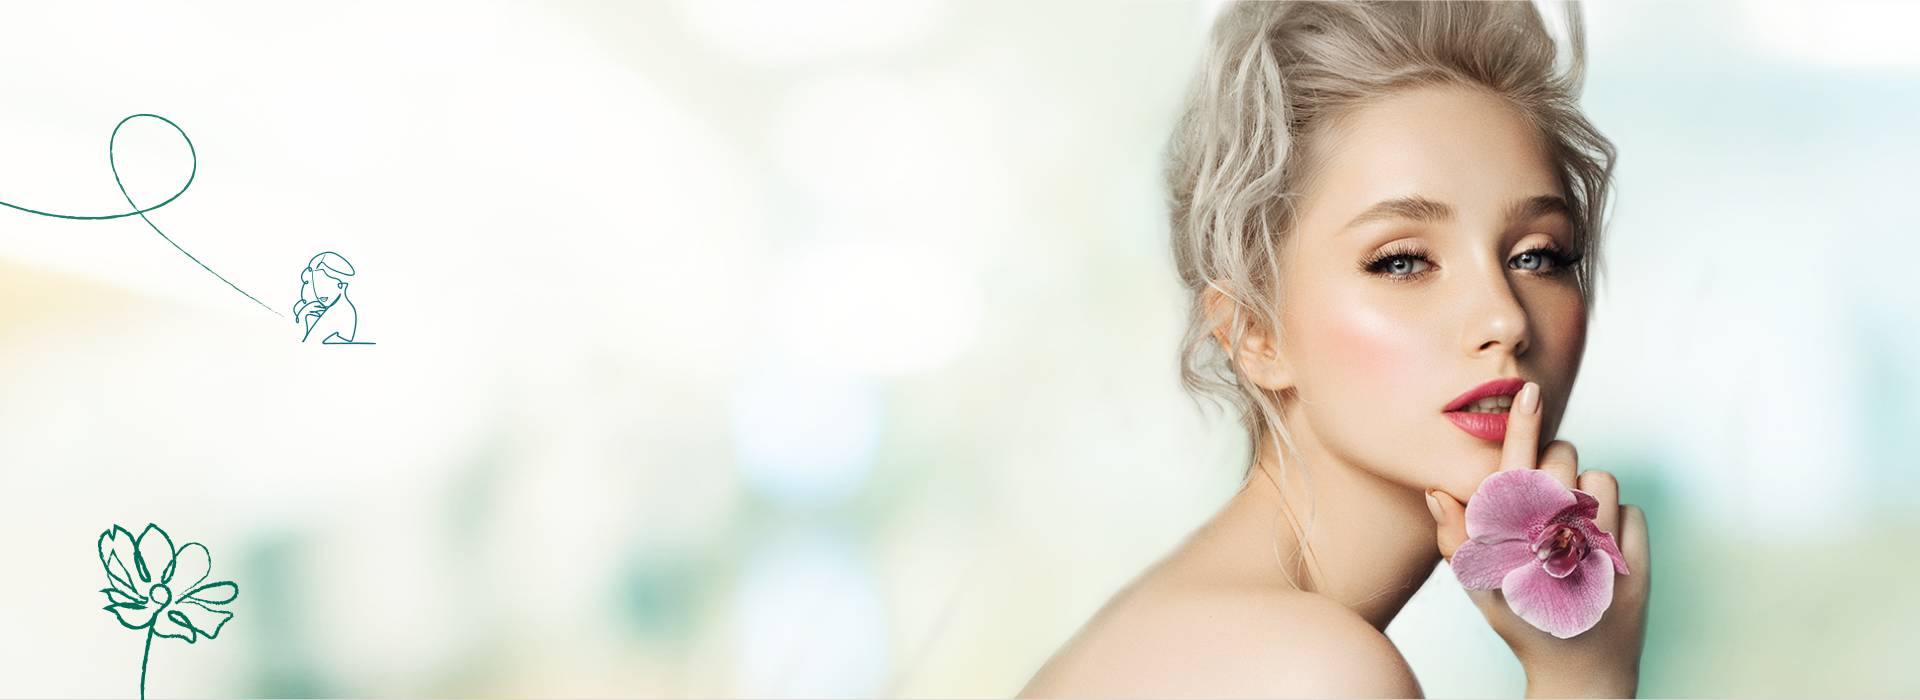
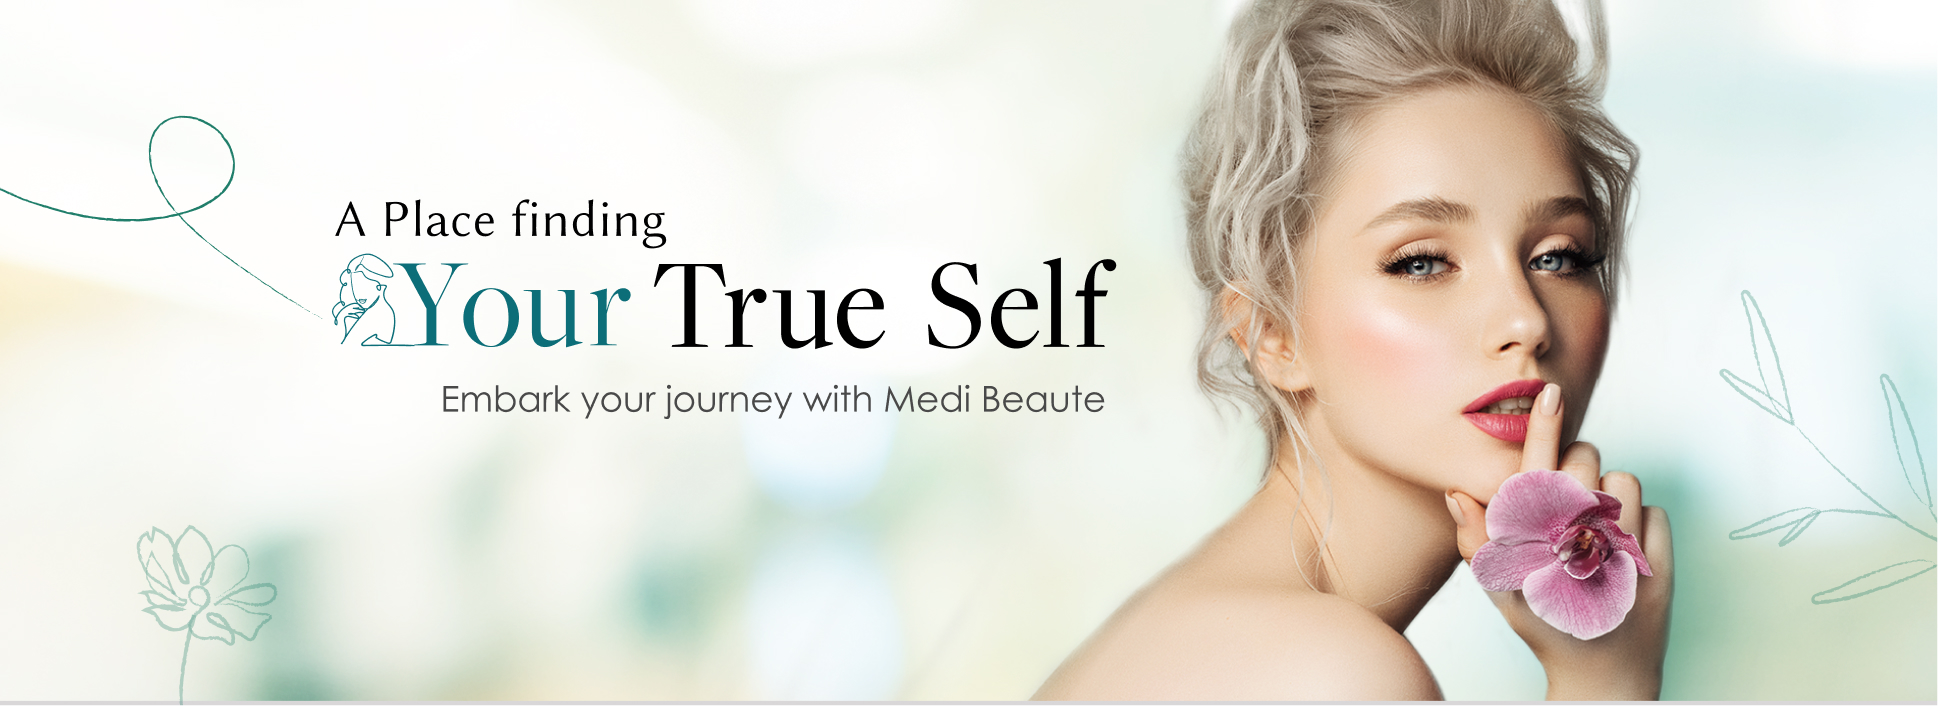
update font

diff --git a/index.html b/index.html
@@ -179,14 +179,18 @@
 	</header>
 	<!-- END HEADER -->
 
+	<section>
+		<div class="banner-image">
+			<img src="assets/images/banner1.jpg" class="img-fluid" alt="Banner image">
+		</div>
+	</section>
 	<!-- START SECTION BANNER -->
-	<div class="banner_section slide_medium shop_banner_slider staggered-animation-wrap">
+	<!-- <div class="banner_section slide_medium shop_banner_slider staggered-animation-wrap">
 		<div id="carouselExampleControls" class="carousel slide carousel-fade light_arrow" data-ride="carousel">
 			<div class="carousel-inner">
-				<div class="carousel-item active background_bg" data-img-src="assets/images/banner1.jpg">
+				<div class="carousel-item active background_bg background_bg1" data-img-src="assets/images/banner1.jpg">
 					<div class="banner_slide_content">
 						<div class="container">
-							<!-- STRART CONTAINER -->
 							<div class="row">
 								<div class="col-lg-7 col-9">
 									<div class="banner_content banner_content_padding overflow-hidden">
@@ -199,12 +203,11 @@
 									</div>
 								</div>
 							</div>
-						</div><!-- END CONTAINER-->
 					</div>
 				</div>
 			</div>
 		</div>
-	</div>
+	</div> -->
 	<!-- END SECTION BANNER -->
 
 	<!-- END MAIN CONTENT -->
@@ -214,7 +217,7 @@
 		<div class="section">
 			<div class="container">
 				<div class="row align-items-center flex-row-reverse">
-					<div class="col-md-6 offset-md-1">
+					<div class="col-md-6">
 						<div class="medium_divider d-none d-md-block clearfix"></div>
 						<div class="trand_banner_text text-center text-md-left">
 							<div class="title mb-3">
@@ -231,7 +234,7 @@
 						</div>
 						<div class="medium_divider clearfix"></div>
 					</div>
-					<div class="col-md-5">
+					<div class="col-md-6">
 						<div class="text-center trading_img">
 							<img src="assets//images/glow_own.jpg" alt="tranding_img" />
 						</div>
@@ -365,7 +368,7 @@
 		<div class="section">
 			<div class="container">
 				<div class="row align-items-center">
-					<div class="col-md-6 offset-md-1">
+					<div class="col-md-6">
 						<div class="medium_divider d-none d-md-block clearfix"></div>
 						<div class="trand_banner_text text-center text-md-left">
 							<div class="title mb-3">
@@ -381,7 +384,7 @@
 						</div>
 						<div class="medium_divider clearfix"></div>
 					</div>
-					<div class="col-md-5">
+					<div class="col-md-6">
 						<div class="text-center trading_img">
 							<img src="assets//images/exports-products.jpg" alt="products" />
 						</div>

diff --git a/assets/css/style.css b/assets/css/style.css
@@ -46,6 +46,23 @@ Version      : 1.0
 	font-style: normal;
 }
 
+@font-face {
+	font-family: 'century_gothicregular';
+	src: url('../fonts/gothic-webfont.woff2') format('woff2'),
+			 url('../fonts/gothic-webfont.woff') format('woff');
+	font-weight: normal;
+	font-style: normal;
+
+}
+
+@font-face {
+	font-family: 'century_gothicbold';
+	src: url('../fonts/gothicb-webfont.woff2') format('woff2'),
+			 url('../fonts/gothicb-webfont.woff') format('woff');
+	font-weight: normal;
+	font-style: normal;
+}
+
 html,
 body {
 	-webkit-font-smoothing: antialiased;
@@ -58,7 +75,7 @@ body {
 body {
 	background: #ffffff none repeat scroll 0 0;
 	color: #000000;
-	font-family: 'Poppins', sans-serif;
+	font-family: 'century_gothicregular', sans-serif;
 	font-size: 14px;
 }
 
@@ -752,6 +769,11 @@ button:focus {
 .background_bg {
 	background-position: center center;
 	background-size: cover;
+}
+.background_bg1 {
+	background-position: center center;
+	background-size: contain;
+	background-repeat: no-repeat;
 }
 
 .bg_size_auto {

diff --git a/product-details.html b/product-details.html
@@ -284,7 +284,7 @@
 										aria-controls="Reviews" aria-selected="false">Ingredients</a>
 								</li>
 							</ul>
-							<div class="tab-content shop_info_tab">
+							<div class="tab-content _info_tab">
 								<div class="tab-pane fade show active" id="Description" role="tabpanel"
 									aria-labelledby="Description-tab">
 									<p>Contrary to popular belief, Lorem Ipsum is not simply random text. It has roots in a piece of
@@ -347,7 +347,7 @@
 	<!-- END MAIN CONTENT -->
 
 
-	<!-- START SECTION SHOP -->
+	<!-- START SECTION -->
 	<div class="section small_pt small_pb">
 		<div class="container">
 			<div class="row">
@@ -549,7 +549,7 @@
 			</div>
 		</div>
 	</div>
-	<!-- END SECTION SHOP -->
+	<!-- END SECTION  -->
 
 	<!-- START SECTION SUBSCRIBE NEWSLETTER -->
 	<div class="section small_pt small_pb subscribe-bg" style="background-image: url(assets//images/stay-in-touch.jpg)">

diff --git a/assets/css/responsive.css b/assets/css/responsive.css
@@ -14,7 +14,13 @@
 /* -------------------------------------------------
   (max-width: 1250px)
 ---------------------------------------------------*/
-@media only screen and (max-width: 1250px) {
+@media only screen and (min-width: 1250px) {
+.container {
+		max-width: 960px;
+}
+header .container {
+	max-width: 1140px;
+}
 .nav_style1.owl-theme .owl-nav .owl-next {
 	right: -40px;
 }
